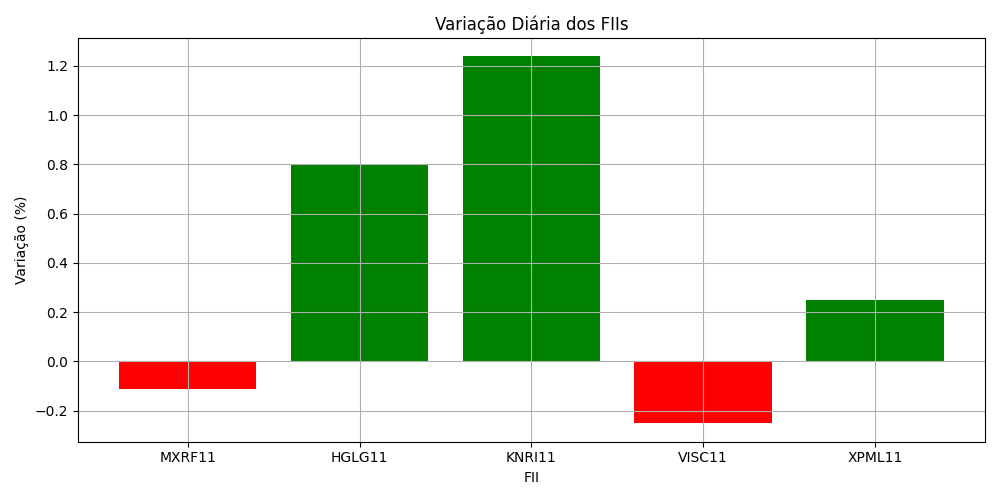
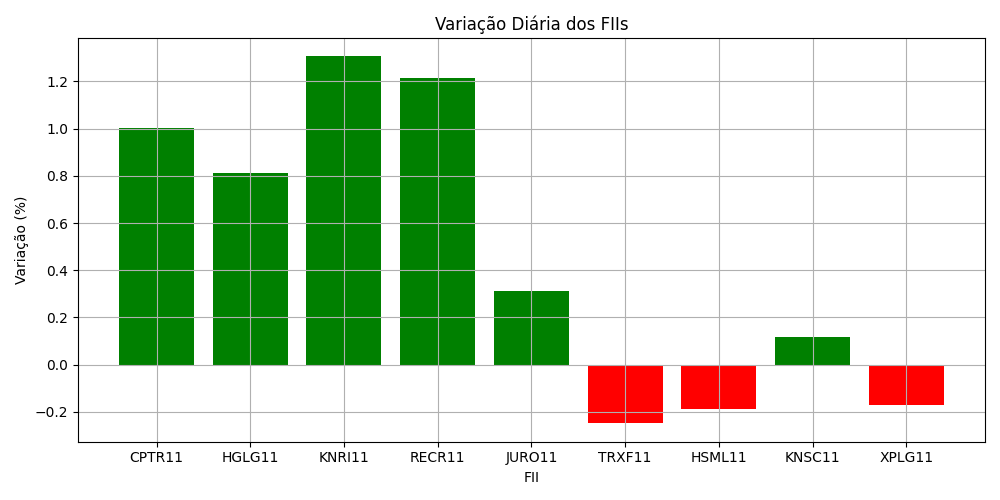
update de fills

diff --git a/RadarFII/RadarFill.py b/RadarFII/RadarFill.py
@@ -8,7 +8,7 @@ import os
 # === CONFIGURAÇÕES ===
 API_TOKEN_BRAPI = 'wd11P6ggfscs5UYkr6XB6t'
 GOOGLE_API_KEY = "AIzaSyBAzeGLTtDWhl3L-GHc7KshqWaGa5_MyG4"
-fii_list = ['MXRF11', 'HGLG11', 'KNRI11', 'VISC11', 'XPML11']
+fii_list = ['CPTR11', 'HGLG11', 'KNRI11', 'RECR11', 'JURO11','TRXF11','HSML11','KNSC11','XPLG11']
 
 # Configura o Gemini
 genai.configure(api_key=GOOGLE_API_KEY)
